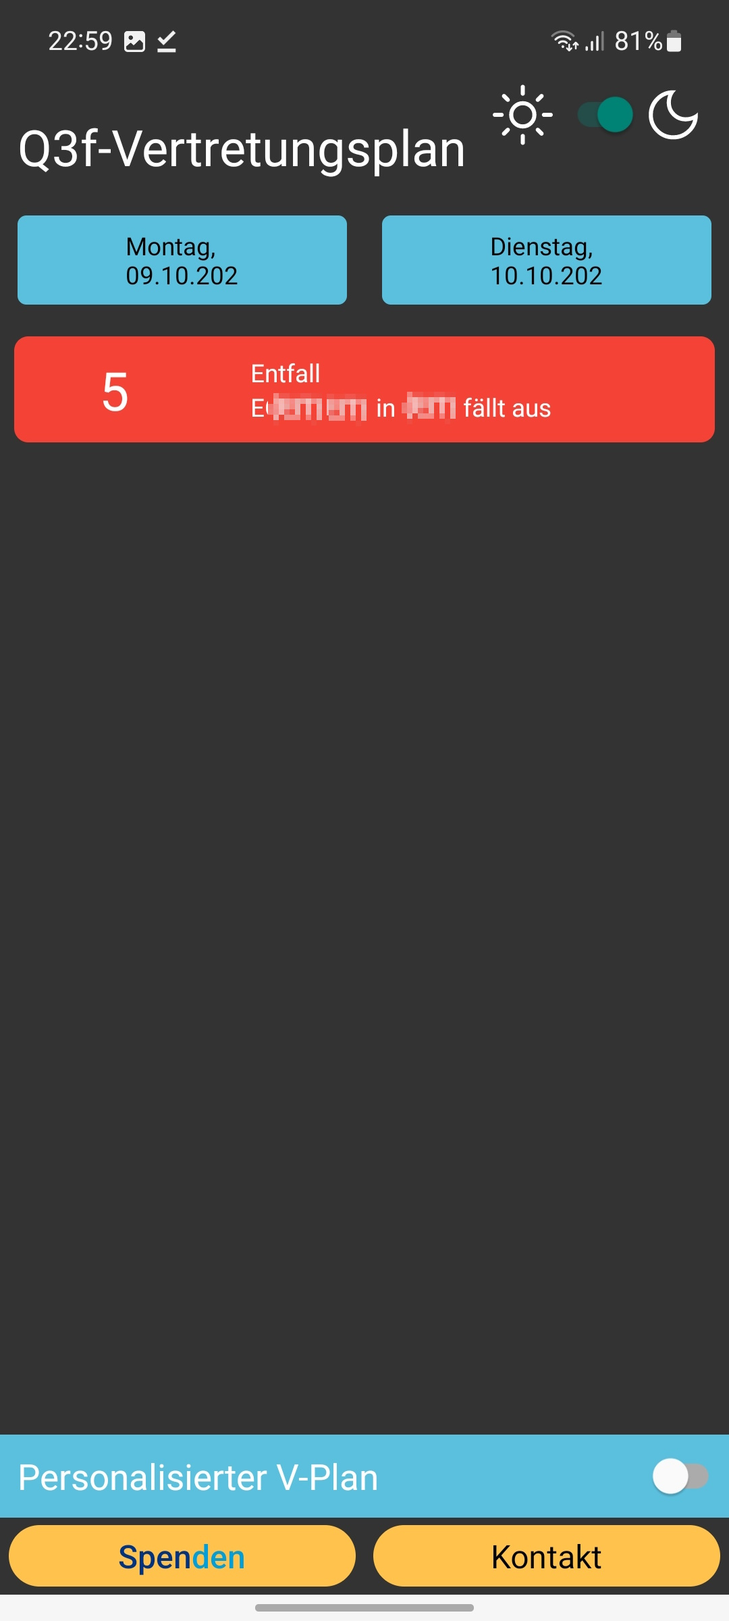
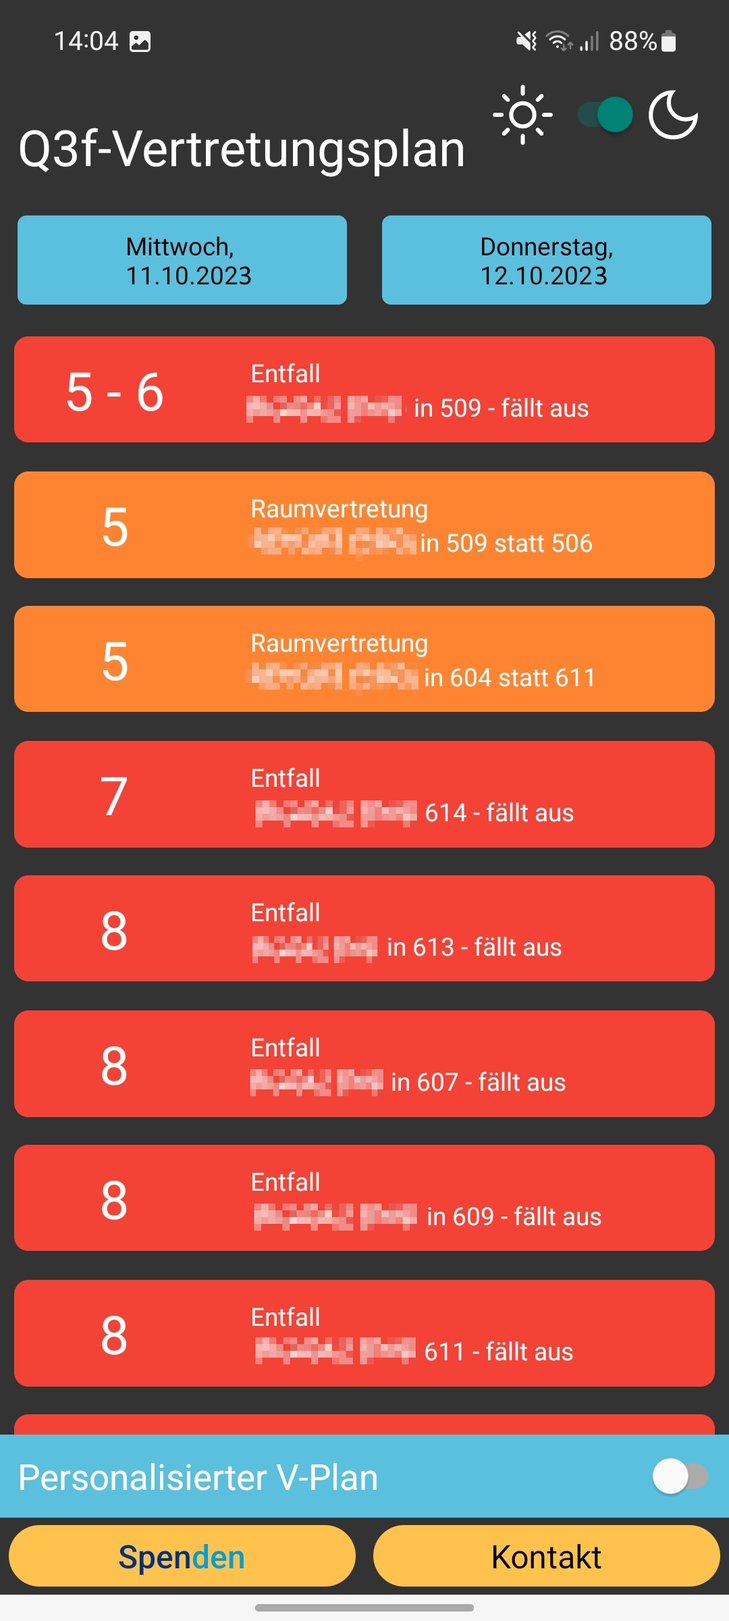
fixed some bugs

diff --git a/src/hooks/api/useSubstitutionPlanEntriesWithDates.ts b/src/hooks/api/useSubstitutionPlanEntriesWithDates.ts
@@ -15,12 +15,14 @@ export function useSubstitutionPlanEntriesWithDates() {
     useEffect(() => {
         fetchSubstitutionPlanHTML(sid)
             .then((response) => {
-                let vertretungsplanHTML = response.data;
+                let vertretungsplanHTML;
+                vertretungsplanHTML = response.data;
+                //vertretungsplanHTML = '<!DOCTYPE html> <!-- saved from url=(0055)https://start.schulportal.hessen.de/vertretungsplan.php --> <html lang="de"> <head> <meta http-equiv="Content-Type" content="text/html; charset=UTF-8"> <title>Vertretungsplan - Schulportal Hessen - Pädagogische Organisation</title> <meta http-equiv="X-UA-Compatible" content="IE=edge"> <meta name="viewport" content="width=device-width, initial-scale=1"> <script src="./Vertretungsplan - Schulportal Hessen - Pädagogische Organisation_files/log.js.Herunterladen"></script> <link rel="manifest" href="https://start.schulportal.hessen.de/manifests/6013/manifest.json"> <script src="./Vertretungsplan - Schulportal Hessen - Pädagogische Organisation_files/manifest.js.Herunterladen"></script> <link rel="stylesheet" href="./Vertretungsplan - Schulportal Hessen - Pädagogische Organisation_files/bootstrap.min.css"> <link rel="icon" type="image/png" sizes="32x32" href="https://start.schulportal.hessen.de/img/favicon-32x32.png"> <link rel="icon" type="image/png" sizes="32x32" href="https://start.schulportal.hessen.de/img/favicon-32x32.png"> <link href="./Vertretungsplan - Schulportal Hessen - Pädagogische Organisation_files/responsive-text.css" rel="stylesheet"> <link href="./Vertretungsplan - Schulportal Hessen - Pädagogische Organisation_files/own.20161117.css" rel="stylesheet"> <link href="./Vertretungsplan - Schulportal Hessen - Pädagogische Organisation_files/all.min.css" rel="stylesheet"> <link href="./Vertretungsplan - Schulportal Hessen - Pädagogische Organisation_files/solid.min.css" rel="stylesheet"> <link href="./Vertretungsplan - Schulportal Hessen - Pädagogische Organisation_files/v4-shims.min.css" rel="stylesheet"> <script src="./Vertretungsplan - Schulportal Hessen - Pädagogische Organisation_files/jquery-1.11.2.min.js.Herunterladen"></script> <link rel="stylesheet" href="./Vertretungsplan - Schulportal Hessen - Pädagogische Organisation_files/theme.css"> <link rel="stylesheet" href="./Vertretungsplan - Schulportal Hessen - Pädagogische Organisation_files/jquery-ui.min.css"> <script src="./Vertretungsplan - Schulportal Hessen - Pädagogische Organisation_files/jquery-ui.min.js.Herunterladen"></script> <script src="./Vertretungsplan - Schulportal Hessen - Pädagogische Organisation_files/stickynav.js.Herunterladen"></script> <meta name="description" content="Schulportal Hessen"> <script src="./Vertretungsplan - Schulportal Hessen - Pädagogische Organisation_files/bootstrap.min.js.Herunterladen"></script> <link href="./Vertretungsplan - Schulportal Hessen - Pädagogische Organisation_files/bootstrap.submenue.css" rel="stylesheet"> <link href="./Vertretungsplan - Schulportal Hessen - Pädagogische Organisation_files/e357e97e4733a190ce72d0d6c1c439d3.css" rel="stylesheet"> <script src="./Vertretungsplan - Schulportal Hessen - Pädagogische Organisation_files/jquery.cookie.js.Herunterladen"></script> <script src="./Vertretungsplan - Schulportal Hessen - Pädagogische Organisation_files/topapps.js.Herunterladen"></script> <script src="./Vertretungsplan - Schulportal Hessen - Pädagogische Organisation_files/jquery.logoutTimer.js.Herunterladen"></script> <script src="./Vertretungsplan - Schulportal Hessen - Pädagogische Organisation_files/allPages.js.Herunterladen"></script> <script src="./Vertretungsplan - Schulportal Hessen - Pädagogische Organisation_files/matheretter.js.Herunterladen"></script> <meta name="theme-color" content="#254a7c"> </head> <body> <div class="allButFooter"> <div class="hidden-print"> <nav class="navbar navbar-default visible-lg visible-md navbar-custom navbar-first"> <div class="container"> <div class="navbar-header"> <a class="navbar-brand" href="https://start.schulportal.hessen.de/index.php"> <img src="./Vertretungsplan - Schulportal Hessen - Pädagogische Organisation_files/logo-schulportal-topbar.svg" title="Schulportal Hessen" style="position: relative; left: -13px; top: -16px" width="300"> </a> </div> <div class="collapse navbar-collapse" id="bs-example-navbar-collapse-1"> </div> </div> </nav> </div> <div class="hidden-print" style="background-color: #ffffff;" id="headlogo"> <div class="container visible-lg visible-md"> <div class="masthead"> <div class="row headlogo"> <div class="col-md-12"> <img src="./Vertretungsplan - Schulportal Hessen - Pädagogische Organisation_files/9db99dc62e0821774e3298846253f035.png" class="hidden-phone img-responsive pull-left" style="padding-right: 10px; display: inline;vertical-align: middle;"> <div style="padding-top: 15px;"> <p class="headtitle">Kopernikusschule Freigericht <small>Freigericht</small><span id="institutionsid" data-bezeichnung="Kopernikusschule Freigericht" class="hidden">6013</span></p> <div class="hidden-phone tiny">"Schulportal Hessen - Pädagogische Organisation"</div> </div> </div> </div> </div> </div> </div> <div class="sticky-wrapper" style="height: auto;"></div> <div class="navbar navbar-default navbar-custom navbar-last hidden-print sticky" role="navigation" data-toggle="sticky-onscroll"> <div class="container"> <div class="navbar-header visible-sm visible-xs"> <button type="button" class="navbar-toggle" data-toggle="collapse" data-target=".navbar-collapse"> <span class="sr-only">Toggle navigation</span> <span class="icon-bar"></span> <span class="icon-bar"></span> <span class="icon-bar"></span> </button> <a class="navbar-brand" href="https://start.schulportal.hessen.de/index.php"> Kopernikusschule Freigericht</a> </div> <div class="navbar-collapse collapse"> <ul class="nav navbar-nav" id="menueband"> <li><a href="https://start.schulportal.hessen.de/index.php" data-wx="no" title="Startseite"><i class="fa fa-home fa-fw" aria-hidden="true"></i> Start</a> </li> <li class="dropdown"> <a aria-expanded="false" role="button" data-toggle="dropdown" class="dropdown-toggle" href="https://start.schulportal.hessen.de/vertretungsplan.php#" id="topapps"><span class="fa fa-bars"></span> Apps <span class="caret"></span></a> <ul role="menu" class="dropdown-menu"> <li><a href="https://start.schulportal.hessen.de/vertretungsplan.php#"><i class="fa fa-spinner fa-spin fa-fw"></i> Lade ...</a></li> </ul> </li> </ul> <ul class="nav navbar-nav navbar-right"> <li class="dropdown"> <a aria-expanded="false" role="button" data-toggle="dropdown" class="dropdown-toggle" href="https://start.schulportal.hessen.de/vertretungsplan.php#"> <span class="glyphicon glyphicon-user"></span> Bäsler, Tim (Q2f) <span class="caret"></span> </a> <ul role="menu" class="dropdown-menu"> <li><a href="https://start.schulportal.hessen.de/benutzerverwaltung.php?a=userChangePassword" data-wx="no"><span class="fa fa-key fa-fw"></span> Passwort ändern</a></li> <li><a href="https://start.schulportal.hessen.de/benutzerverwaltung.php?a=userMail" data-wx="no"><span class="fa fa-at fa-fw"></span> E-Mail &amp; Benachrichtigungen</a> </li> <li><a href="https://start.schulportal.hessen.de/benutzerverwaltung.php?a=userFoto" data-wx="no"><span class="fa fa-image fa-fw"></span> Foto</a></li> <li role="separator" class="divider"></li> <li><a href="https://start.schulportal.hessen.de/benutzerverwaltung.php?a=userData" data-wx="no"><span class="fa fa-list fa-fw"></span> Benutzerdaten</a></li> <li role="separator" class="divider"></li> <li><a href="https://start.schulportal.hessen.de/benutzerverwaltung.php?a=userAutologins" data-wx="no"><span class="fa fa-sign-in fa-fw"></span> Automatische Anmeldungen</a> </li> </ul> </li> <li class="dropdown"> <a aria-expanded="false" role="button" data-toggle="dropdown" class="dropdown-toggle" href="https://start.schulportal.hessen.de/vertretungsplan.php#"><span class="glyphicon glyphicon-wrench"></span> Support<span class="caret"></span></a> <ul role="menu" class="dropdown-menu"> <li><a href="https://start.schulportal.hessen.de/lanis-support.php" data-click="support" target="_blank"><span class="fa fa-life-ring"></span> Support</a></li> <li> <a href="https://start.schulportal.hessen.de/benutzerverwaltung.php?a=userDSGVO"><span class="glyphicon glyphicon-eye-open"></span> Datenschutz</a></li> <li><a href="https://support.schulportal.hessen.de/knowledgebase.php?category=45" target="_blank"><span class="glyphicon glyphicon-question-sign"></span> Hilfe/FAQ</a> </li> <li class="divider"></li> <li><a href="https://start.schulportal.hessen.de/verwaltung.php?a=impressum" target="_blank"><span class="glyphicon glyphicon-info-sign"></span> Impressum</a></li> </ul> </li> <li><a href="https://start.schulportal.hessen.de/index.php?logout=all" data-wx="no"><span title="Abmeldung aus allen angebundenen Systemen"><span class="fa fa-power-off fw"></span> Logout</span></a></li> </ul> </div> </div> </div> <div class="container"> <div class="row clearfix hidden-print"> <div class="col-md-12 column logoutTimer"> <div class="alert alert-danger" id="logoutTimer" style="display: none;"><b>Automatischer Logout:</b> Es konnte längere Zeit keine Aktion auf dieser Seite festgestellt werden. <br>Der automatische Logout erfolgt daher in <span id="timer"></span> Sekunden! <a class="btn btn-danger" onclick="$.breaklogoutTimer();" data-wx="no">Ich möchte weiter arbeiten, bitte nicht ausloggen</a></div> </div> </div> <div id="content"> <h1> <span class="hidden-xs"> Mein Vertretungsplan</span><span class="visible-xs">Mein Vplan</span></h1> <div class="row clearfix"> <div> <div class="panel panel-info" id="menue_tag"> <div class="panel-body"> <button data-tag="17_07_2023" class="btn btn-info"> Montag,\n <span class="hidden-xs">den </span> 17.07<span class="hidden-xs">.2023</span> <span class="badge label-warning">6</span> <span class="label label-default">morgen</span> </button> <button data-tag="18_07_2023" class="btn btn-info"> Dienstag,\n <span class="hidden-xs">den </span> 18.07<span class="hidden-xs">.2023</span> <span class="badge label-warning">31</span> </button> </div> </div> <div class="panel panel-info" style="display: block;" id="tag17_07_2023"> <div class="panel-heading"> Montag<span class="hidden-xs">, den 17.07.2023</span> <span class="badge">morgen</span> <span class="badge woche"> 29. Woche </span> </div> <div class="panel-body"> <h3>Vertretungen am 17.07.2023</h3> <div class="bootstrap-table"> <div class="fixed-table-toolbar"> <div class="bs-bars pull-left"></div> <div class="columns columns-right btn-group pull-right"> <button class="btn btn-default" type="button" name="toggle" title="Umschalten"><i class="glyphicon glyphicon-list-alt icon-list-alt"></i></button> <div class="keep-open btn-group" title="Spalten"> <button type="button" class="btn btn-default dropdown-toggle" data-toggle="dropdown"><i class="glyphicon glyphicon-th icon-th"></i> <span class="caret"></span></button> <ul class="dropdown-menu" role="menu"> <li><label><input type="checkbox" data-field="_farbe" value="0" checked="checked"> </label></li> <li><label><input type="checkbox" data-field="Stunde" value="1" checked="checked"> Stunde </label></li> <li><label><input type="checkbox" data-field="Klasse" value="2" checked="checked"> Klasse </label></li> <li><label><input type="checkbox" data-field="Vertreter" value="3" checked="checked"> Vertretung </label></li> <li><label><input type="checkbox" data-field="Lehrer" value="4" checked="checked"> Lehrkraft </label></li> <li><label><input type="checkbox" data-field="Art" value="5" checked="checked"> Art </label></li> <li><label><input type="checkbox" data-field="Fach" value="6" checked="checked"> Fach </label></li> <li><label><input type="checkbox" data-field="Fach_alt" value="7" checked="checked"> Fach_alt </label></li> <li><label><input type="checkbox" data-field="Raum" value="8" checked="checked"> Raum </label></li> <li><label><input type="checkbox" data-field="Raum_alt" value="9" checked="checked"> Raum_alt </label></li> <li><label><input type="checkbox" data-field="Hinweis" value="10" checked="checked"> Hinweis </label></li> </ul> </div> </div> <div class="pull-right search"><input class="form-control" type="text" placeholder="Suchen"></div> </div> <div class="fixed-table-container" style="padding-bottom: 0px;"> <div class="fixed-table-header" style="display: none;"> <table></table> </div> <div class="fixed-table-body"> <div class="fixed-table-loading" style="top: 1px;">Lade, bitte warten...</div> <table class="table table-hover table-condensed table-striped" id="vtable17_07_2023" data-classview="no" data-toggle="table" data-pagination="true" data-page-size="All" data-page-list="[15,30,50,100]" data-show-toggle="true" data-show-columns="true" data-search="true" data-state-save="true" data-toolbar="#toolbar17072023"> <thead style=""> <tr> <th style="" data-field="_farbe" tabindex="0"> <div class="th-inner "></div> <div class="fht-cell"></div> </th> <th style="" data-field="Stunde" tabindex="0"> <div class="th-inner sortable both"> Stunde </div> <div class="fht-cell"></div> </th> <th style="" data-field="Klasse" tabindex="0"> <div class="th-inner sortable both"> Klasse </div> <div class="fht-cell"></div> </th> <th style="" data-field="Vertreter" tabindex="0"> <div class="th-inner sortable both"> Vertretung </div> <div class="fht-cell"></div> </th> <th style="" data-field="Lehrer" tabindex="0"> <div class="th-inner sortable both"> Lehrkraft </div> <div class="fht-cell"></div> </th> <th style="" data-field="Art" tabindex="0"> <div class="th-inner sortable both"> Art </div> <div class="fht-cell"></div> </th> <th style="" data-field="Fach" tabindex="0"> <div class="th-inner sortable both"> Fach </div> <div class="fht-cell"></div> </th> <th style="" data-field="Fach_alt" tabindex="0"> <div class="th-inner sortable both"> Fach_alt </div> <div class="fht-cell"></div> </th> <th style="" data-field="Raum" tabindex="0"> <div class="th-inner sortable both"> Raum </div> <div class="fht-cell"></div> </th> <th style="" data-field="Raum_alt" tabindex="0"> <div class="th-inner sortable both"> Raum_alt </div> <div class="fht-cell"></div> </th> <th style="" data-field="Hinweis" tabindex="0"> <div class="th-inner sortable both"> Hinweis </div> <div class="fht-cell"></div> </th> </tr> </thead> <tbody> <tr data-index="0"> <td style="" title="1 - 2 Stunde: Entfall von FLK1 bei &lt;del&gt;BEN&lt;/del&gt;"> &nbsp; </td> <td style=""> 1 - 2 </td> <td style=""> Q2a, Q2b, Q2c, Q2d, Q2e, Q2f, Q2g, Q2h, Q2i </td> <td style=""> </td> <td style=""> <del>BEN</del> </td> <td style=""> Entfall </td> <td style=""> FLK1 </td> <td style=""> FLK1 </td> <td style=""> </td> <td style=""> 607 </td> <td style=""> fällt aus </td> </tr> <tr data-index="1"> <td style="" title="1 - 2 Stunde: Entfall von FGK1 bei &lt;del&gt;BEN&lt;/del&gt;"> &nbsp; </td> <td style=""> 1 - 2 </td> <td style=""> Q2a, Q2b, Q2c, Q2d, Q2e, Q2f, Q2g, Q2h, Q2i </td> <td style=""> </td> <td style=""> <del>BEN</del> </td> <td style=""> Entfall </td> <td style=""> FGK1 </td> <td style=""> FGK1 </td> <td style=""> </td> <td style=""> 609 </td> <td style=""> fällt aus </td> </tr> <tr data-index="2"> <td style="" title="3 - 4 Stunde: Entfall von MGK5 bei &lt;del&gt;MUK&lt;/del&gt;"> &nbsp; </td> <td style=""> 3 - 4 </td> <td style=""> Q2a, Q2b, Q2c, Q2d, Q2e, Q2f, Q2g, Q2h, Q2i </td> <td style=""> </td> <td style=""> <del>MUK</del> </td> <td style=""> Entfall </td> <td style=""> MGK5 </td> <td style=""> MGK5 </td> <td style=""> </td> <td style=""> 612 </td> <td style=""> fällt aus </td> </tr> <tr data-index="3"> <td style="" title="5 - 6 Stunde: Entfall von ELK1 bei &lt;del&gt;PAL&lt;/del&gt;"> &nbsp; </td> <td style=""> 5 - 6 </td> <td style=""> Q2a, Q2b, Q2c, Q2d, Q2e, Q2f, Q2g, Q2h, Q2i </td> <td style=""> </td> <td style=""> <del>PAL</del> </td> <td style=""> Entfall </td> <td style=""> ELK1 </td> <td style=""> ELK1 </td> <td style=""> </td> <td style=""> 508 </td> <td style=""> fällt aus </td> </tr> <tr data-index="4"> <td style="" title="5 - 6 Stunde: Entfall von EGK1 bei &lt;del&gt;EIT&lt;/del&gt;"> &nbsp; </td> <td style=""> 5 - 6 </td> <td style=""> Q2a, Q2b, Q2c, Q2d, Q2e, Q2f, Q2g, Q2h, Q2i </td> <td style=""> </td> <td style=""> <del>EIT</del> </td> <td style=""> Entfall </td> <td style=""> EGK1 </td> <td style=""> EGK1 </td> <td style=""> </td> <td style=""> 608 </td> <td style=""> fällt aus </td> </tr> <tr data-index="5"> <td style="" title="5 - 6 Stunde: Entfall von EGK3 bei &lt;del&gt;ZIE&lt;/del&gt;"> &nbsp; </td> <td style=""> 5 - 6 </td> <td style=""> Q2a, Q2b, Q2c, Q2d, Q2e, Q2f, Q2g, Q2h, Q2i </td> <td style=""> </td> <td style=""> <del>ZIE</del> </td> <td style=""> Entfall </td> <td style=""> EGK3 </td> <td style=""> EGK3 </td> <td style=""> </td> <td style=""> 611 </td> <td style=""> fällt aus </td> </tr> </tbody> </table> </div> <div class="fixed-table-footer" style="display: none;"> <table> <tbody> <tr></tr> </tbody> </table> </div> <div class="fixed-table-pagination"> <div class="pull-left pagination-detail"> <span class="pagination-info">Zeige 1 bis 6 von 6 Zeilen</span> <span class="page-list" style="display: none;"> <span class="btn-group dropup"> <button type="button" class="btn btn-default dropdown-toggle" data-toggle="dropdown"><span class="page-size">All</span> <span class="caret"></span></button> <ul class="dropdown-menu" role="menu"> <li><a>15</a></li> </ul> </span> Einträge pro Seite </span> </div> <div class="pull-right pagination" style="display: none;"> <ul class="pagination"> <li class="page-pre"><a href="javascript:void(0)">‹</a></li> <li class="page-number active"><a>1</a></li> <li class="page-next"><a href="javascript:void(0)">›</a></li> </ul> </div> </div> </div> </div> <div class="clearfix"></div> <div class="pull-right"><i>Letzte Aktualisierung: 14.07.2023 um 13:32:38 Uhr</i></div> </div> </div> <div class="panel panel-info" style="display: none;" id="tag18_07_2023"> <div class="panel-heading"> Dienstag<span class="hidden-xs">, den 18.07.2023</span> <span class="badge woche"> 29. Woche </span> </div> <div class="panel-body"> <h3>Vertretungen am 18.07.2023</h3> <div class="bootstrap-table"> <div class="fixed-table-toolbar"> <div class="bs-bars pull-left"></div> <div class="columns columns-right btn-group pull-right"> <button class="btn btn-default" type="button" name="toggle" title="Umschalten"><i class="glyphicon glyphicon-list-alt icon-list-alt"></i></button> <div class="keep-open btn-group" title="Spalten"> <button type="button" class="btn btn-default dropdown-toggle" data-toggle="dropdown"><i class="glyphicon glyphicon-th icon-th"></i> <span class="caret"></span></button> <ul class="dropdown-menu" role="menu"> <li><label><input type="checkbox" data-field="_farbe" value="0" checked="checked"> </label></li> <li><label><input type="checkbox" data-field="Stunde" value="1" checked="checked"> Stunde </label></li> <li><label><input type="checkbox" data-field="Klasse" value="2" checked="checked"> Klasse </label></li> <li><label><input type="checkbox" data-field="Vertreter" value="3" checked="checked"> Vertretung </label></li> <li><label><input type="checkbox" data-field="Lehrer" value="4" checked="checked"> Lehrkraft </label></li> <li><label><input type="checkbox" data-field="Art" value="5" checked="checked"> Art </label></li> <li><label><input type="checkbox" data-field="Fach" value="6" checked="checked"> Fach </label></li> <li><label><input type="checkbox" data-field="Fach_alt" value="7" checked="checked"> Fach_alt </label></li> <li><label><input type="checkbox" data-field="Raum" value="8" checked="checked"> Raum </label></li> <li><label><input type="checkbox" data-field="Raum_alt" value="9" checked="checked"> Raum_alt </label></li> <li><label><input type="checkbox" data-field="Hinweis" value="10" checked="checked"> Hinweis </label></li> </ul> </div> </div> <div class="pull-right search"><input class="form-control" type="text" placeholder="Suchen"></div> </div> <div class="fixed-table-container" style="padding-bottom: 0px;"> <div class="fixed-table-header" style="display: none;"> <table></table> </div> <div class="fixed-table-body"> <div class="fixed-table-loading" style="top: 1px;">Lade, bitte warten...</div> <table class="table table-hover table-condensed table-striped" id="vtable18_07_2023" data-classview="no" data-toggle="table" data-pagination="true" data-page-size="All" data-page-list="[15,30,50,100]" data-show-toggle="true" data-show-columns="true" data-search="true" data-state-save="true" data-toolbar="#toolbar18072023"> <thead style=""> <tr> <th style="" data-field="_farbe" tabindex="0"> <div class="th-inner "></div> <div class="fht-cell"></div> </th> <th style="" data-field="Stunde" tabindex="0"> <div class="th-inner sortable both"> Stunde </div> <div class="fht-cell"></div> </th> <th style="" data-field="Klasse" tabindex="0"> <div class="th-inner sortable both"> Klasse </div> <div class="fht-cell"></div> </th> <th style="" data-field="Vertreter" tabindex="0"> <div class="th-inner sortable both"> Vertretung </div> <div class="fht-cell"></div> </th> <th style="" data-field="Lehrer" tabindex="0"> <div class="th-inner sortable both"> Lehrkraft </div> <div class="fht-cell"></div> </th> <th style="" data-field="Art" tabindex="0"> <div class="th-inner sortable both"> Art </div> <div class="fht-cell"></div> </th> <th style="" data-field="Fach" tabindex="0"> <div class="th-inner sortable both"> Fach </div> <div class="fht-cell"></div> </th> <th style="" data-field="Fach_alt" tabindex="0"> <div class="th-inner sortable both"> Fach_alt </div> <div class="fht-cell"></div> </th> <th style="" data-field="Raum" tabindex="0"> <div class="th-inner sortable both"> Raum </div> <div class="fht-cell"></div> </th> <th style="" data-field="Raum_alt" tabindex="0"> <div class="th-inner sortable both"> Raum_alt </div> <div class="fht-cell"></div> </th> <th style="" data-field="Hinweis" tabindex="0"> <div class="th-inner sortable both"> Hinweis </div> <div class="fht-cell"></div> </th> </tr> </thead> <tbody> <tr data-index="0"> <td style="" title="1 - 2 Stunde: Entfall von DLK1 bei &lt;del&gt;FAB&lt;/del&gt;"> &nbsp; </td> <td style=""> 1 - 2 </td> <td style=""> Q2b, Q2c, Q2d, Q2e, Q2f, Q2g, Q2h, Q2i </td> <td style=""> </td> <td style=""> <del>FAB</del> </td> <td style=""> Entfall </td> <td style=""> DLK1 </td> <td style=""> DLK1 </td> <td style=""> </td> <td style=""> 607 </td> <td style=""> fällt aus </td> </tr> <tr data-index="1"> <td style=""> &nbsp; </td> <td style=""> 1 - 2 </td> <td style=""> Q2b, Q2c, Q2d, Q2e, Q2f, Q2g, Q2h, Q2i </td> <td style=""> CUR </td> <td style=""> <del>CUR</del> </td> <td style=""> Vertretung </td> <td style=""> DGK1 </td> <td style=""> DGK1 </td> <td style=""> 608 </td> <td style=""> 608 </td> <td style=""> </td> </tr> <tr data-index="2"> <td style=""> &nbsp; </td> <td style=""> 1 - 2 </td> <td style=""> Q2b, Q2c, Q2d, Q2e, Q2f, Q2g, Q2h, Q2i </td> <td style=""> SMT </td> <td style=""> <del>SMT</del> </td> <td style=""> Vertretung </td> <td style=""> DGK2 </td> <td style=""> DGK2 </td> <td style=""> 508 </td> <td style=""> 508 </td> <td style=""> </td> </tr> <tr data-index="3"> <td style=""> &nbsp; </td> <td style=""> 1 - 2 </td> <td style=""> Q2b, Q2c, Q2d, Q2e, Q2f, Q2g, Q2h, Q2i </td> <td style=""> SMI </td> <td style=""> <del>SMI</del> </td> <td style=""> Vertretung </td> <td style=""> DGK3 </td> <td style=""> DGK3 </td> <td style=""> 612 </td> <td style=""> 612 </td> <td style=""> </td> </tr> <tr data-index="4"> <td style=""> &nbsp; </td> <td style=""> 1 - 2 </td> <td style=""> Q2b, Q2c, Q2d, Q2e, Q2f, Q2g, Q2h, Q2i </td> <td style=""> MOR </td> <td style=""> <del>MOR</del> </td> <td style=""> Vertretung </td> <td style=""> DGK4 </td> <td style=""> DGK4 </td> <td style=""> 611 </td> <td style=""> 611 </td> <td style=""> </td> </tr> <tr data-index="5"> <td style=""> &nbsp; </td> <td style=""> 1 - 2 </td> <td style=""> Q2b, Q2c, Q2d, Q2e, Q2f, Q2g, Q2h, Q2i </td> <td style=""> LOB </td> <td style=""> <del>LOB</del> </td> <td style=""> Vertretung </td> <td style=""> DGK5 </td> <td style=""> DGK5 </td> <td style=""> 610 </td> <td style=""> 610 </td> <td style=""> </td> </tr> <tr data-index="6"> <td style=""> &nbsp; </td> <td style=""> 1 - 2 </td> <td style=""> Q2b, Q2c, Q2d, Q2e, Q2f, Q2g, Q2h, Q2i </td> <td style=""> WSS </td> <td style=""> <del>WSS</del> </td> <td style=""> Vertretung </td> <td style=""> DGK6 </td> <td style=""> DGK6 </td> <td style=""> 613 </td> <td style=""> 613 </td> <td style=""> </td> </tr> <tr data-index="7"> <td style=""> &nbsp; </td> <td style=""> 3 - 4 </td> <td style=""> Q2b, Q2c, Q2d, Q2e, Q2f, Q2g, Q2h, Q2i </td> <td style=""> BEC </td> <td style=""> <del>BEC</del> </td> <td style=""> Vertretung </td> <td style=""> GGK1 </td> <td style=""> GGK1 </td> <td style=""> 609 </td> <td style=""> 609 </td> <td style=""> </td> </tr> <tr data-index="8"> <td style=""> &nbsp; </td> <td style=""> 3 - 4 </td> <td style=""> Q2b, Q2c, Q2d, Q2e, Q2f, Q2g, Q2h, Q2i </td> <td style=""> ROQ </td> <td style=""> <del>ROQ</del> </td> <td style=""> Vertretung </td> <td style=""> GGKbiF1 </td> <td style=""> GGKbiF1 </td> <td style=""> 608 </td> <td style=""> 608 </td> <td style=""> </td> </tr> <tr data-index="9"> <td style=""> &nbsp; </td> <td style=""> 3 - 4 </td> <td style=""> Q2b, Q2c, Q2d, Q2e, Q2f, Q2g, Q2h, Q2i </td> <td style=""> BUT </td> <td style=""> <del>BUT</del> </td> <td style=""> Vertretung </td> <td style=""> GGK2 </td> <td style=""> GGK2 </td> <td style=""> 607 </td> <td style=""> 607 </td> <td style=""> </td> </tr> <tr data-index="10"> <td style=""> &nbsp; </td> <td style=""> 3 - 4 </td> <td style=""> Q2b, Q2c, Q2d, Q2e, Q2f, Q2g, Q2h, Q2i </td> <td style=""> FEI </td> <td style=""> <del>FEI</del> </td> <td style=""> Vertretung </td> <td style=""> GGK3 </td> <td style=""> GGK3 </td> <td style=""> 610 </td> <td style=""> 610 </td> <td style=""> </td> </tr> <tr data-index="11"> <td style=""> &nbsp; </td> <td style=""> 3 - 4 </td> <td style=""> Q2b, Q2c, Q2d, Q2e, Q2f, Q2g, Q2h, Q2i </td> <td style=""> MAG </td> <td style=""> <del>MAG</del> </td> <td style=""> Vertretung </td> <td style=""> GGK4 </td> <td style=""> GGK4 </td> <td style=""> 614 </td> <td style=""> 614 </td> <td style=""> </td> </tr> <tr data-index="12"> <td style=""> &nbsp; </td> <td style=""> 3 - 4 </td> <td style=""> Q2b, Q2c, Q2d, Q2e, Q2f, Q2g, Q2h, Q2i </td> <td style=""> SRO </td> <td style=""> <del>SRO</del> </td> <td style=""> Vertretung </td> <td style=""> GGK5 </td> <td style=""> GGK5 </td> <td style=""> 612 </td> <td style=""> 612 </td> <td style=""> </td> </tr> <tr data-index="13"> <td style="" title="3 - 4 Stunde: Entfall von GGK6 bei &lt;del&gt;ULL&lt;/del&gt;"> &nbsp; </td> <td style=""> 3 - 4 </td> <td style=""> Q2b, Q2c, Q2d, Q2e, Q2f, Q2g, Q2h, Q2i </td> <td style=""> </td> <td style=""> <del>ULL</del> </td> <td style=""> Entfall </td> <td style=""> GGK6 </td> <td style=""> GGK6 </td> <td style=""> </td> <td style=""> 613 </td> <td style=""> fällt aus </td> </tr> <tr data-index="14"> <td style="" title="5 - 6 Stunde: Entfall von BIGK2 bei &lt;del&gt;NIE&lt;/del&gt;"> &nbsp; </td> <td style=""> 5 - 6 </td> <td style=""> Q2b, Q2c, Q2d, Q2e, Q2f, Q2g, Q2h, Q2i </td> <td style=""> </td> <td style=""> <del>NIE</del> </td> <td style=""> Entfall </td> <td style=""> BIGK2 </td> <td style=""> BIGK2 </td> <td style=""> </td> <td style=""> 409 </td> <td style=""> fällt aus </td> </tr> <tr data-index="15"> <td style=""> &nbsp; </td> <td style=""> 5 - 6 </td> <td style=""> Q2b, Q2c, Q2d, Q2e, Q2f, Q2g, Q2h, Q2i </td> <td style=""> KAP </td> <td style=""> <del>KAP</del> </td> <td style=""> Vertretung </td> <td style=""> BILK1 </td> <td style=""> BILK1 </td> <td style=""> 408 </td> <td style=""> 408 </td> <td style=""> </td> </tr> <tr data-index="16"> <td style=""> &nbsp; </td> <td style=""> 5 - 6 </td> <td style=""> Q2b, Q2c, Q2d, Q2e, Q2f, Q2g, Q2h, Q2i </td> <td style=""> SAR </td> <td style=""> <del>SAR</del> </td> <td style=""> Vertretung </td> <td style=""> PHLK1 </td> <td style=""> PHLK1 </td> <td style=""> 411 </td> <td style=""> 411 </td> <td style=""> </td> </tr> <tr data-index="17"> <td style=""> &nbsp; </td> <td style=""> 5 - 6 </td> <td style=""> Q2b, Q2c, Q2d, Q2e, Q2f, Q2g, Q2h, Q2i </td> <td style=""> ALT </td> <td style=""> <del>ALT</del> </td> <td style=""> Vertretung </td> <td style=""> PHGK2 </td> <td style=""> PHGK2 </td> <td style=""> 412 </td> <td style=""> 412 </td> <td style=""> </td> </tr> <tr data-index="18"> <td style=""> &nbsp; </td> <td style=""> 5 - 6 </td> <td style=""> Q2b, Q2c, Q2d, Q2e, Q2f, Q2g, Q2h, Q2i </td> <td style=""> KAE </td> <td style=""> <del>KAE</del> </td> <td style=""> Vertretung </td> <td style=""> CHGK2 </td> <td style=""> CHGK2 </td> <td style=""> 402 </td> <td style=""> 402 </td> <td style=""> </td> </tr> <tr data-index="19"> <td style=""> &nbsp; </td> <td style=""> 5 - 6 </td> <td style=""> Q2b, Q2c, Q2d, Q2e, Q2f, Q2g, Q2h, Q2i </td> <td style=""> CRI </td> <td style=""> <del>CRI</del> </td> <td style=""> Vertretung </td> <td style=""> BIGK3 </td> <td style=""> BIGK3 </td> <td style=""> 410 </td> <td style=""> 410 </td> <td style=""> </td> </tr> <tr data-index="20"> <td style="" title="7 Stunde: Entfall von ITAf1 bei &lt;del&gt;BRN&lt;/del&gt;"> &nbsp; </td> <td style=""> 7 </td> <td style=""> Q2b, Q2c, Q2d, Q2e, Q2f, Q2g, Q2h, Q2i </td> <td style=""> </td> <td style=""> <del>BRN</del> </td> <td style=""> Entfall </td> <td style=""> ITAf1 </td> <td style=""> ITAf1 </td> <td style=""> </td> <td style=""> 612 </td> <td style=""> fällt aus </td> </tr> <tr data-index="21"> <td style=""> &nbsp; </td> <td style=""> 8 </td> <td style=""> Q2b, Q2c, Q2d, Q2e, Q2f, Q2g, Q2h, Q2i </td> <td style=""> GES </td> <td style=""> <del>GES</del> </td> <td style=""> Vertretung </td> <td style=""> POWILK1 </td> <td style=""> POWILK1 </td> <td style=""> 608 </td> <td style=""> 608 </td> <td style=""> </td> </tr> <tr data-index="22"> <td style=""> &nbsp; </td> <td style=""> 8 </td> <td style=""> Q2b, Q2c, Q2d, Q2e, Q2f, Q2g, Q2h, Q2i </td> <td style=""> MOR </td> <td style=""> <del>MOR</del> </td> <td style=""> Vertretung </td> <td style=""> POWIGK1 </td> <td style=""> POWIGK1 </td> <td style=""> 607 </td> <td style=""> 607 </td> <td style=""> </td> </tr> <tr data-index="23"> <td style=""> &nbsp; </td> <td style=""> 8 </td> <td style=""> Q2b, Q2c, Q2d, Q2e, Q2f, Q2g, Q2h, Q2i </td> <td style=""> SEN </td> <td style=""> <del>SEN</del> </td> <td style=""> Vertretung </td> <td style=""> POWIbiE1 </td> <td style=""> POWIbiE1 </td> <td style=""> 609 </td> <td style=""> 609 </td> <td style=""> </td> </tr> <tr data-index="24"> <td style=""> &nbsp; </td> <td style=""> 8 </td> <td style=""> Q2b, Q2c, Q2d, Q2e, Q2f, Q2g, Q2h, Q2i </td> <td style=""> MAU </td> <td style=""> <del>MAU</del> </td> <td style=""> Vertretung </td> <td style=""> POWIGK2 </td> <td style=""> POWIGK2 </td> <td style=""> 610 </td> <td style=""> 610 </td> <td style=""> </td> </tr> <tr data-index="25"> <td style=""> &nbsp; </td> <td style=""> 8 </td> <td style=""> Q2b, Q2c, Q2d, Q2e, Q2f, Q2g, Q2h, Q2i </td> <td style=""> MEC </td> <td style=""> <del>MEC</del> </td> <td style=""> Vertretung </td> <td style=""> POWIGK3 </td> <td style=""> POWIGK3 </td> <td style=""> 614 </td> <td style=""> 614 </td> <td style=""> </td> </tr> <tr data-index="26"> <td style="" title="8 Stunde: Entfall von POWIGK4 bei &lt;del&gt;ULL&lt;/del&gt;"> &nbsp; </td> <td style=""> 8 </td> <td style=""> Q2b, Q2c, Q2d, Q2e, Q2f, Q2g, Q2h, Q2i </td> <td style=""> </td> <td style=""> <del>ULL</del> </td> <td style=""> Entfall </td> <td style=""> POWIGK4 </td> <td style=""> POWIGK4 </td> <td style=""> </td> <td style=""> 612 </td> <td style=""> fällt aus </td> </tr> <tr data-index="27"> <td style=""> &nbsp; </td> <td style=""> 9 </td> <td style=""> Q2b, Q2c, Q2d, Q2e, Q2f, Q2g, Q2h, Q2i </td> <td style=""> KAS </td> <td style=""> <del>KAS</del> </td> <td style=""> Vertretung </td> <td style=""> BIGK1 </td> <td style=""> BIGK1 </td> <td style=""> 408 </td> <td style=""> 408 </td> <td style=""> </td> </tr> <tr data-index="28"> <td style=""> &nbsp; </td> <td style=""> 9 </td> <td style=""> Q2b, Q2c, Q2d, Q2e, Q2f, Q2g, Q2h, Q2i </td> <td style=""> SHE </td> <td style=""> <del>SHE</del> </td> <td style=""> Vertretung </td> <td style=""> CHGK1 </td> <td style=""> CHGK1 </td> <td style=""> 402 </td> <td style=""> 402 </td> <td style=""> </td> </tr> <tr data-index="29"> <td style=""> &nbsp; </td> <td style=""> 9 </td> <td style=""> Q2b, Q2c, Q2d, Q2e, Q2f, Q2g, Q2h, Q2i </td> <td style=""> ALT </td> <td style=""> <del>ALT</del> </td> <td style=""> Vertretung </td> <td style=""> PHGK1 </td> <td style=""> PHGK1 </td> <td style=""> 411 </td> <td style=""> 411 </td> <td style=""> </td> </tr> <tr data-index="30"> <td style=""> &nbsp; </td> <td style=""> 9 </td> <td style=""> Q2b, Q2c, Q2d, Q2e, Q2f, Q2g, Q2h, Q2i </td> <td style=""> HAR </td> <td style=""> <del>HAR</del> </td> <td style=""> Vertretung </td> <td style=""> PHGK3 </td> <td style=""> PHGK3 </td> <td style=""> 412 </td> <td style=""> 412 </td> <td style=""> </td> </tr> </tbody> </table> </div> <div class="fixed-table-footer" style="display: none;"> <table> <tbody> <tr></tr> </tbody> </table> </div> <div class="fixed-table-pagination"> <div class="pull-left pagination-detail"> <span class="pagination-info">Zeige 1 bis 31 von 31 Zeilen</span> <span class="page-list"> <span class="btn-group dropup"> <button type="button" class="btn btn-default dropdown-toggle" data-toggle="dropdown"><span class="page-size">All</span> <span class="caret"></span></button> <ul class="dropdown-menu" role="menu"> <li><a>15</a></li> <li><a>30</a></li> <li><a>50</a></li> </ul> </span> Einträge pro Seite </span> </div> <div class="pull-right pagination" style="display: none;"> <ul class="pagination"> <li class="page-pre"><a href="javascript:void(0)">‹</a></li> <li class="page-number active"><a>1</a></li> <li class="page-next"><a href="javascript:void(0)">›</a></li> </ul> </div> </div> </div> </div> <div class="clearfix"></div> <div class="pull-right"><i>Letzte Aktualisierung: 14.07.2023 um 13:32:38 Uhr</i></div> </div> </div> </div> <link rel="stylesheet" href="./Vertretungsplan - Schulportal Hessen - Pädagogische Organisation_files/bootstrap-table.min.css"> <script src="./Vertretungsplan - Schulportal Hessen - Pädagogische Organisation_files/bootstrap-table.min.js.Herunterladen"></script> <script src="./Vertretungsplan - Schulportal Hessen - Pädagogische Organisation_files/bootstrap-table-de-DE.min.js.Herunterladen"></script> <script src="./Vertretungsplan - Schulportal Hessen - Pädagogische Organisation_files/bootstrap-table-export.js.Herunterladen"></script> <script type="text/javascript" src="./Vertretungsplan - Schulportal Hessen - Pädagogische Organisation_files/tableExport.min.js.Herunterladen"></script> <script type="text/javascript" src="./Vertretungsplan - Schulportal Hessen - Pädagogische Organisation_files/FileSaver.min.js.Herunterladen"></script> <script type="text/javascript" src="./Vertretungsplan - Schulportal Hessen - Pädagogische Organisation_files/html2canvas.min.js.Herunterladen"></script> <script type="text/javascript" src="./Vertretungsplan - Schulportal Hessen - Pädagogische Organisation_files/jspdf.min.js.Herunterladen"></script> <script type="text/javascript" src="./Vertretungsplan - Schulportal Hessen - Pädagogische Organisation_files/jspdf.plugin.autotable.js.Herunterladen"></script> <script src="./Vertretungsplan - Schulportal Hessen - Pädagogische Organisation_files/bootstrap-table-cookie.js.Herunterladen"></script> <script src="./Vertretungsplan - Schulportal Hessen - Pädagogische Organisation_files/bootbox.min.js.Herunterladen"></script> <script src="./Vertretungsplan - Schulportal Hessen - Pädagogische Organisation_files/autoadmin.js.Herunterladen"></script> <script src="./Vertretungsplan - Schulportal Hessen - Pädagogische Organisation_files/jquery.storageapi.min.js.Herunterladen"></script> <script src="./Vertretungsplan - Schulportal Hessen - Pädagogische Organisation_files/my.js.Herunterladen"></script> <link href="./Vertretungsplan - Schulportal Hessen - Pädagogische Organisation_files/my.css" type="text/css" media="screen" rel="stylesheet"> </div> <span class="hidden-print"><br><br></span> </div> </div> </div> <div class="hidden-print footer"> <div class="row visible-lg visible-md"> <div class="cold-md-12"> <table width="100%"> <tbody> <tr> <td width="50%"> <a href="https://start.schulportal.hessen.de/index.php"><img src="./Vertretungsplan - Schulportal Hessen - Pädagogische Organisation_files/logo-schulportal-footer.svg" width="160" height="29"></a> </td> <td style="text-align: right;" width="50%"> <a href="https://start.schulportal.hessen.de/benutzerverwaltung.php?a=userDSGVO">Datenschutz</a>&nbsp;|&nbsp;<a href="https://start.schulportal.hessen.de/verwaltung.php?a=impressum">Impressum</a> </td> </tr> </tbody> </table> </div> </div> <div class="row visible-sm visible-xs"> <div class="col-sm-12 col-xs-12" style="font-size: 8pt; text-align: center;"> <a href="https://start.schulportal.hessen.de/benutzerverwaltung.php?a=userDSGVO">Datenschutz</a>&nbsp;|&nbsp;<a href="https://start.schulportal.hessen.de/verwaltung.php?a=impressum">Impressum</a> </div> </div> </div> <script src="./Vertretungsplan - Schulportal Hessen - Pädagogische Organisation_files/pagemenue.js.Herunterladen"></script> <div id="desktopTest" class="hidden-xs"></div> </body> </html>';
                 const datesWithValues = parseSubstitutionPlanHTML(vertretungsplanHTML);
                 setFirstDate(datesWithValues.firstDateValues.date);
-                setSubstitutionPlanEntriesOfFirstDate(datesWithValues.firstDateValues.vertretungsplanEntries);
+                setSubstitutionPlanEntriesOfFirstDate([...datesWithValues.firstDateValues.vertretungsplanEntries]);
                 setSecondDate(datesWithValues.secondDateValues.date);
-                setSubstitutionPlanEntriesOfSecondDate(datesWithValues.secondDateValues.vertretungsplanEntries);
+                setSubstitutionPlanEntriesOfSecondDate([...datesWithValues.secondDateValues.vertretungsplanEntries]);
                 setLoading(false);                 
             })
             .catch((error: string) => {

diff --git a/src/screens/SubstitutionPlanScreen/SubstitutionPlanScreen.tsx b/src/screens/SubstitutionPlanScreen/SubstitutionPlanScreen.tsx
@@ -78,23 +78,23 @@ export default function SubstitutionPlanScreen() {
 
     if (!areSubstitutionPlanEntriesLoading) {
       setFirstDate(firstDate_);
-      setSubstitutionPlanEntriesOfFirstDate(
-        substitutionPlanEntriesOfFirstDate_
-      );
+      setSubstitutionPlanEntriesOfFirstDate([
+        ...substitutionPlanEntriesOfFirstDate_,
+      ]);
 
       setSecondDate(secondDate_);
-      setSubstitutionPlanEntriesOfSecondDate(
-        substitutionPlanEntriesOfSecondDate_
-      );
+      setSubstitutionPlanEntriesOfSecondDate([
+        ...substitutionPlanEntriesOfSecondDate_,
+      ]);
 
-      setSubstitutionPlanEntries(substitutionPlanEntriesOfFirstDate_);
+      setSubstitutionPlanEntries([...substitutionPlanEntriesOfFirstDate_]);
       setScreenLoading(false);
     }
   }, [areSubstitutionPlanEntriesLoading, isUserDataLoading]);
 
   useEffect(() => {
     getTimetable().then((retrievedTimetable) => {
-      setTimetable(retrievedTimetable);
+      setTimetable([...retrievedTimetable]);
     });
   }, []);
 
@@ -123,13 +123,13 @@ export default function SubstitutionPlanScreen() {
         substitutionPlanEntries
       );
 
-      setSubstitutionPlanEntries(filteredEntries);
+      setSubstitutionPlanEntries([...filteredEntries]);
     } else {
       storePersonalizedSubstitutionPlanEnabledInAsyncStorage("false");
       if (selectedDate === SelectedDate.FirstDate) {
-        setSubstitutionPlanEntries(substitutionPlanEntriesOfFirstDate);
+        setSubstitutionPlanEntries([...substitutionPlanEntriesOfFirstDate]);
       } else {
-        setSubstitutionPlanEntries(substitutionPlanEntriesOfSecondDate);
+        setSubstitutionPlanEntries([...substitutionPlanEntriesOfSecondDate]);
       }
     }
 
@@ -167,9 +167,11 @@ export default function SubstitutionPlanScreen() {
                   substitutionPlanEntriesOfFirstDate
                 );
 
-                setSubstitutionPlanEntries(filteredEntries);
+                setSubstitutionPlanEntries([...filteredEntries]);
               } else {
-                setSubstitutionPlanEntries(substitutionPlanEntriesOfFirstDate);
+                setSubstitutionPlanEntries([
+                  ...substitutionPlanEntriesOfFirstDate,
+                ]);
               }
               setSelectedDate(SelectedDate.FirstDate);
             }}
@@ -185,9 +187,11 @@ export default function SubstitutionPlanScreen() {
                   substitutionPlanEntriesOfSecondDate
                 );
 
-                setSubstitutionPlanEntries(filteredEntries);
+                setSubstitutionPlanEntries([...filteredEntries]);
               } else {
-                setSubstitutionPlanEntries(substitutionPlanEntriesOfSecondDate);
+                setSubstitutionPlanEntries([
+                  ...substitutionPlanEntriesOfSecondDate,
+                ]);
               }
               setSelectedDate(SelectedDate.SecondDate);
             }}
@@ -199,14 +203,13 @@ export default function SubstitutionPlanScreen() {
           {substitutionPlanEntries.length === 0 ? (
             <NoSubstitutionsEntry />
           ) : (
-            <></>
+            substitutionPlanEntries.map((item) => (
+              <SubstitutionPlanEntry
+                {...item}
+                key={item.lesson + item.originalRoom + item.originalTeacher}
+              />
+            ))
           )}
-          {substitutionPlanEntries.map((item) => (
-            <SubstitutionPlanEntry
-              {...item}
-              key={item.lesson + item.originalRoom + item.originalTeacher}
-            />
-          ))}
         </ScrollView>
         <View style={styles.bottomBar}>
           <Text style={styles.personalizedSubstitutionPlanDescription}>

diff --git a/src/services/parsing/apiHTMLResponse/parseSubstitutionPlanHTML.ts b/src/services/parsing/apiHTMLResponse/parseSubstitutionPlanHTML.ts
@@ -15,14 +15,13 @@ export default function parseSubstitutionPlanHTML(vertretungsplanHTML: string) {
   );
 
   const cleanedHTML = vertretungsplanHTML.replace(firstDateVertretungen, "");
-  
+
   const secondDateVetretungen = cleanedHTML.substring(
     cleanedHTML.indexOf("<tbody>"),
     cleanedHTML.indexOf("</tbody") + "</tbody>".length + 1
   );
-
-  const firstDateEntries: ISubstitutionPlanEntry[] = parseSubstitutionPlanEntriesTable(firstDateVertretungen);
-  const secondDateEntries: ISubstitutionPlanEntry[] = parseSubstitutionPlanEntriesTable(secondDateVetretungen);
+  let firstDateEntries: ISubstitutionPlanEntry[] = parseSubstitutionPlanEntriesTable(firstDateVertretungen);
+  let secondDateEntries: ISubstitutionPlanEntry[] = parseSubstitutionPlanEntriesTable(secondDateVetretungen);
   
   const weekdays = [
     "Montag",
@@ -55,6 +54,13 @@ export default function parseSubstitutionPlanHTML(vertretungsplanHTML: string) {
     firstDate = secondDateTemp;
   }
 
+  if(firstDate === "") {
+    firstDate = "---";
+  }
+
+  if(secondDate === "") {
+    secondDate = "---";
+  }
   return {
     firstDateValues: {
       date: firstDate,
@@ -71,7 +77,6 @@ function parseSubstitutionPlanEntriesTable(vertretungsHTML: string) {
   const entries: ISubstitutionPlanEntry[] = [];
   const tableData = parseHTMLTableBody(vertretungsHTML);
   const descriptions = getDescriptions(vertretungsHTML);
-  
   tableData.forEach((substitutionEntry, index) => {
     if(substitutionEntry.length !== 1) {  //if the length of the array is one, only the error that no substitutions are available is contained in the array
       entries.push({
@@ -95,16 +100,16 @@ function parseSubstitutionPlanEntriesTable(vertretungsHTML: string) {
 
 function getDescriptions(vertretungsHTML: string) {
   const descriptions = [];
-
-  const parser = new DOMParser.DOMParser();
-  const parsed = parser.parseFromString(vertretungsHTML, "text/html");
-  const tableRows = parsed.getElementsByTagName("tr");
-  for (let i = 0; i < tableRows.length; i++) {
-    let row = tableRows[i];
-    const description = striptags(row.childNodes[1].getAttribute("title").trim());  //description is contained in the title instead of the textContent
-    
-    descriptions.push(description);
+  if(vertretungsHTML.startsWith("<") && vertretungsHTML.endsWith(">")) {
+    const parser = new DOMParser.DOMParser();
+    const parsed = parser.parseFromString(vertretungsHTML, "text/html");
+    const tableRows = parsed.getElementsByTagName("tr");
+    for (let i = 0; i < tableRows.length; i++) {
+      let row = tableRows[i];
+      const description = striptags(row.childNodes[1].getAttribute("title").trim());  //description is contained in the title instead of the textContent
+      
+      descriptions.push(description);
+    }
   }
-
   return descriptions;
 }

diff --git a/src/services/parseHTMLTableBody.ts b/src/services/parseHTMLTableBody.ts
@@ -3,8 +3,8 @@ const DOMParser = require("react-native-html-parser");
 export default function parseHTMLTableBody(tableBodyHTML: string): string[][] {
     tableBodyHTML = tableBodyHTML.trim();
     if(!tableBodyHTML.startsWith("<tbody") || !tableBodyHTML.endsWith("</tbody>")) {
-        console.error("Table doesn't start with \"<tbody\" or doesn't end with \"</tbody>\"!");
-        return [[]];
+        console.log("Table doesn't start with \"<tbody\" or doesn't end with \"</tbody>\"!");
+        return [];
     }
 
     const tableData: string[][] = [];

diff --git a/src/screens/TryAutoLoginScreen/TryAutoLoginScreen.tsx b/src/screens/TryAutoLoginScreen/TryAutoLoginScreen.tsx
@@ -1,4 +1,4 @@
-import React, { useEffect, useState, useContext } from "react";
+import React, { useEffect, useContext } from "react";
 import LoadingComponent from "../../components/LoadingComponent";
 import { useLogin } from "../../hooks/api/useLogin";
 import { SIDContext } from "../../contexts/Contexts";
